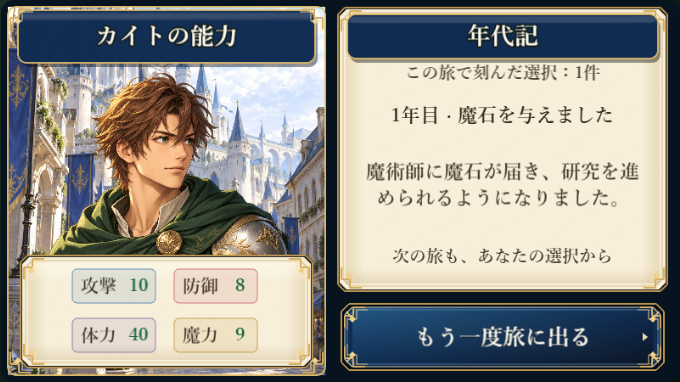
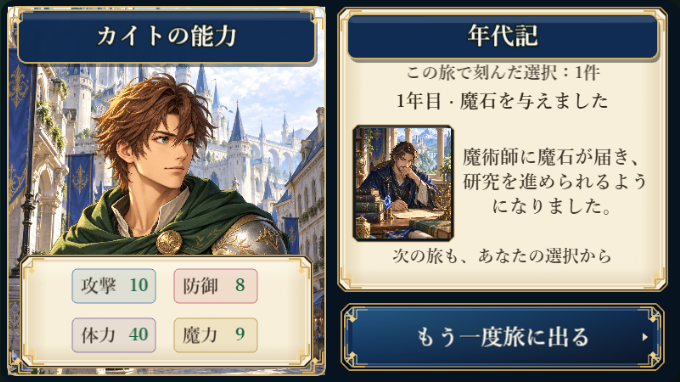
Illustrate landscape chronicle with the final choice outcome

Changed region(s): [[0.4941, 0.2304, 0.9574, 0.6335]]

diff --git a/games/karma-quest/e2e/game.spec.ts b/games/karma-quest/e2e/game.spec.ts
@@ -408,10 +408,10 @@ test("all request results keep readable text separated on compact phones", async
       Reflect.set(scene, "currentRequest", request);
       Reflect.get(scene, "onKarmaChoice").call(scene, accepted);
     }, { request, accepted });
-    for (const mode of ["reaction", "wide", "final"]) {
-      if (mode === "wide" || mode === "final") {
-        await page.setViewportSize(mode === "wide" ? { width: 844, height: 390 } : { width: 320, height: 568 });
-        await expect.poll(() => page.locator("canvas").evaluate(node => (node as HTMLCanvasElement).width)).toBe(mode === "wide" ? 800 : 450);
+    for (const mode of ["reaction", "wide", "final", "wide-final"]) {
+      if (mode !== "reaction") {
+        await page.setViewportSize(mode === "final" ? { width: 320, height: 568 } : { width: 844, height: 390 });
+        await expect.poll(() => page.locator("canvas").evaluate(node => (node as HTMLCanvasElement).width)).toBe(mode === "final" ? 450 : 800);
       }
       if (mode === "final") await page.evaluate(() => Reflect.get(window.__qaGame.scene.getScene("GameScene"), "showFinal").call(window.__qaGame.scene.getScene("GameScene")));
       await expect.poll(() => page.evaluate(({ mode, expectedArt, outcomeKeys }) => {
@@ -426,8 +426,8 @@ test("all request results keep readable text separated on compact phones", async
         };
         scene.children.list.forEach(visit);
         const byName = (name: string) => labels.find(label => label.name === name);
-        const body = byName(mode === "final" ? "chronicleBody" : "reactionBody");
-        const other = byName(mode === "final" ? "chronicleTitle" : "reactionQuote");
+        const body = byName(mode === "wide-final" ? "landscape-chronicle-body" : mode === "final" ? "chronicleBody" : "reactionBody");
+        const other = byName(mode === "wide-final" ? "landscape-chronicle-title" : mode === "final" ? "chronicleTitle" : "reactionQuote");
         if (!body || !other) return false;
         const a = body.getBounds(), b = other.getBounds();
         const canvas = document.querySelector("canvas")!;
@@ -435,11 +435,14 @@ test("all request results keep readable text separated on compact phones", async
         const readable = [body, ...labels.filter(label => label.name.startsWith("stat:"))]
           .every(label => Number.parseFloat(String(label.style.fontSize)) * scale >= 14);
         const separated = a.bottom + 3 <= b.top || b.bottom + 3 <= a.top;
-        const inside = a.left >= 20 && a.right <= canvas.width - 20 && (mode !== "final" || a.bottom <= 303);
+        const inside = a.left >= 20 && a.right <= canvas.width - 20 && (mode !== "final" || a.bottom <= 303)
+          && (mode !== "wide-final" || (a.left >= 540 && a.top >= 145 && a.bottom <= 283));
         const activeArt = artwork.filter(key => outcomeKeys.includes(key));
         return readable && separated && inside && activeArt.length === 1 && activeArt[0] === expectedArt;
       }, { mode, expectedArt: outcomeArtKey(request.id, accepted), outcomeKeys: Object.entries(OUTCOME_ART).filter(([id]) => id !== "village_food").flatMap(([, keys]) => [...keys]) }), { message: `${request.id}, accepted=${accepted}, ${mode}` }).toBe(true);
     }
+    await page.setViewportSize({ width: 320, height: 568 });
+    await expect.poll(() => page.locator("canvas").evaluate(node => (node as HTMLCanvasElement).width)).toBe(450);
   }
 });
 

diff --git a/games/karma-quest/src/conceptArt.ts b/games/karma-quest/src/conceptArt.ts
@@ -684,6 +684,12 @@ function buildLandscapeOverview(scene: Runtime, final: boolean): Phaser.GameObje
   const heading = text(scene, root, 591, 136, "", 23, "#35281e", "900", 338);
   const body = text(scene, root, 591, 218, "", 23, "#43382e", "700", 338);
   const footer = text(scene, root, 591, 302, "", 20, "#43382e", "700", 338);
+  if (final) {
+    heading.setName("landscape-chronicle-title").setY(120).setFontSize(22);
+    hudPlate(scene, root, 474, 216, 120, 138);
+    outcomeArt(scene, root, 418, 151, 112, 130);
+    body.setName("landscape-chronicle-body").setPosition(654, 215).setWordWrapWidth(222, true).setFontSize(22);
+  }
   if (!final) {
     // Keep the envoy beside the request; reserve independent bounds for the copy.
     hudPlate(scene, root, 468, 198, 112, 164);
@@ -701,6 +707,7 @@ function buildLandscapeOverview(scene: Runtime, final: boolean): Phaser.GameObje
     if (final) {
       const history = scene.choiceHistory ?? [];
       const latest = history.at(-1), previous = history.at(-2);
+      (root.getData("refreshOutcomeArt") as () => void)();
       status.setText(`この旅で刻んだ選択：${history.length}件`);
       heading.setText(latest ? `${latest.year}年目 · ${latest.outcome.title}` : "旅の記録");
       body.setText(latest?.outcome.body.replace(/\n/g, "") ?? "まだ選択の記録がありません。");

diff --git a/docs/review/karma-completion-review.md b/docs/review/karma-completion-review.md
@@ -10,6 +10,12 @@
 
 ## 追加パターン
 
+### 横年代記の挿絵
+
+最後の選択に対応する結果イラストを本文の隣へ追加。承諾・見送りの画像を縦画面と共有し、日本語本文は独立領域で折り返す。[横年代記](karma-compact-chronicle-landscape.png)。全16結果のE2Eに横年代記での画像対応、文字サイズ、本文と見出し・挿絵の分離を追加。
+
+型チェック・Lint・ビルド・単体39件成功。関連E2E 3件成功（全16結果の縦横と年代記、回転・再出発、通常12年タップ進行を含む）。
+
 ### 横ホームの依頼者欄
 
 右側の依頼紙面に派閥の肖像を追加。本文は隣の独立領域で日本語を折り返し、縦横回転でも同じ依頼者を表示する。[横ホーム実画面](karma-compact-home-landscape.png)。全8依頼の横ホーム表示と本文の枠内収まりをE2E対象に追加。

diff --git a/docs/design/karma-screen-blueprints.md b/docs/design/karma-screen-blueprints.md
@@ -37,3 +37,6 @@
 ## 横ホームの依頼者欄（2026-09-18追記）
 
 800×450の右側紙面に、肖像枠中心(468,198)、112×164を配置。肖像は(416,124)、104×148、上部60%を同率トリミング。派閥見出し中心(655,128)、本文中心(655,212)、幅226。本文22px、日本語の文字単位折り返しを維持。最高到達と累計評価、下部CTAの位置は維持する。年代記の配置には適用しない。
+## 横年代記の挿絵（2026-09-18追記）
+
+右側紙面の出来事見出しは中心(591,120)、22px。最後の選択の挿絵を(418,151)、112×130に同率トリミングして配置し、本文は中心(654,215)、幅222、22pxとする。本文と挿絵は別領域。選択件数、ひとつ前の記録、能力値と再出発ボタンは従来配置を維持する。回転時も縦年代記と同じ結果画像を使用。
